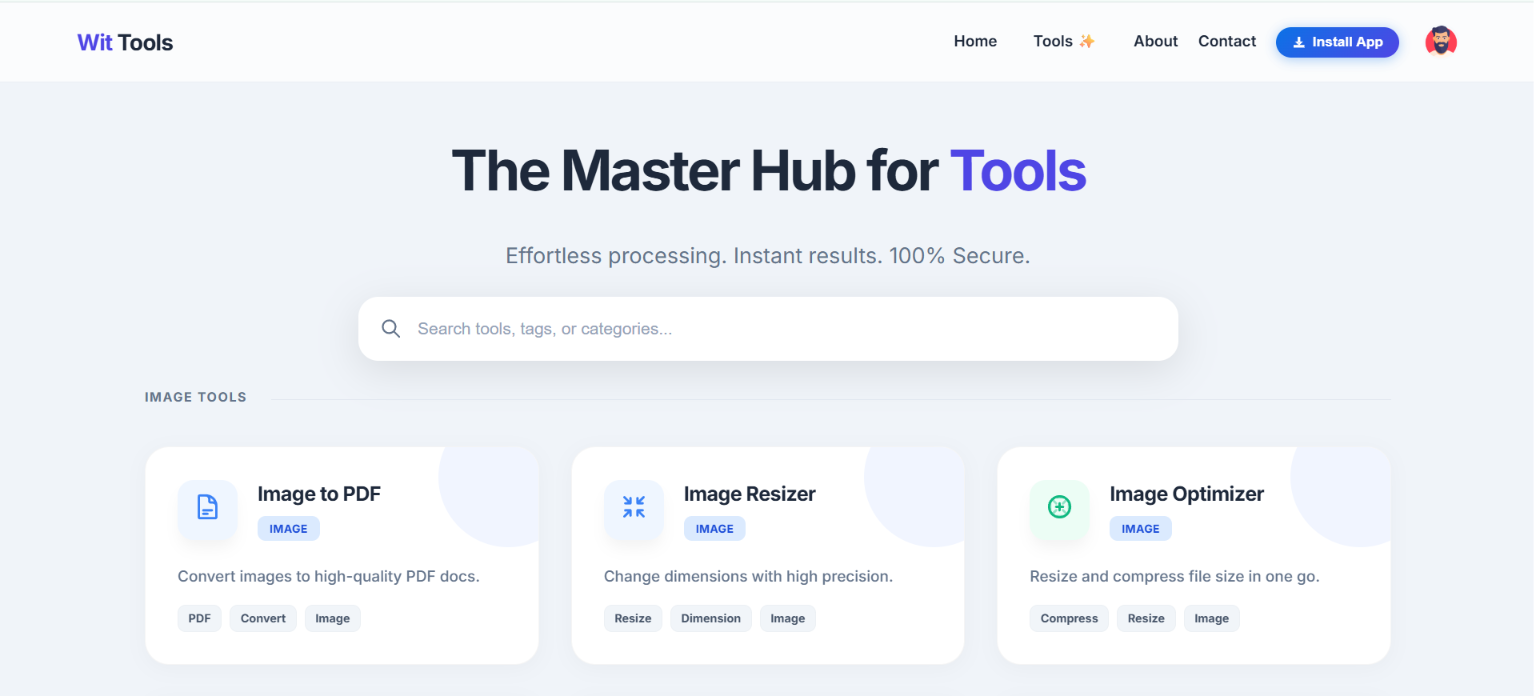
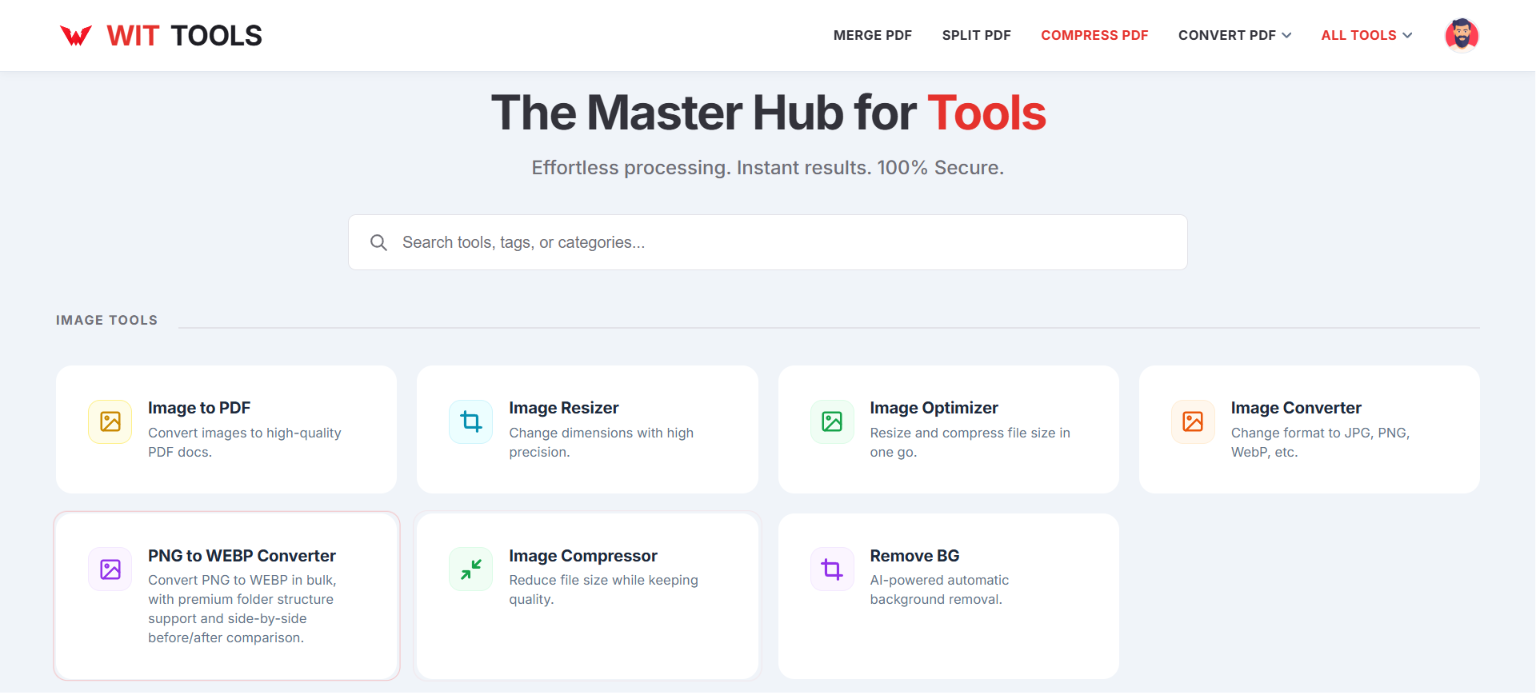
wittool project img chnage

diff --git a/src/themes/main-theme/components/Projects.jsx b/src/themes/main-theme/components/Projects.jsx
@@ -6,13 +6,13 @@ import portfolioData from '../../../data/portfolio.json'
 
 import witcetImg from '../../../assets/Projects/witcet.png'
 import expenseTrackerImg from '../../../assets/Projects/portfolio3-full.png'
-import wittoolImg from '../../../assets/Projects/wittool.png'
+import wittoolImg from '../../../assets/Projects/wittool.webp'
 import skillnearImg from '../../../assets/Projects/D-Home.png'
 import pawpertioImg from '../../../assets/Projects/pawpertio.png'
 const imgMap = {
   '/assets/Projects/witcet.png': witcetImg,
   '/assets/Projects/portfolio3-full.png': expenseTrackerImg,
-  '/assets/Projects/wittool.png': wittoolImg,
+  '/assets/Projects/wittool.webp': wittoolImg,
   '/assets/Projects/D-Home.png': skillnearImg,
   '/assets/Projects/pawpertio.png': pawpertioImg,
 }

diff --git a/src/themes/theme2/components/Projects/FeaturedProjects.jsx b/src/themes/theme2/components/Projects/FeaturedProjects.jsx
@@ -6,7 +6,7 @@ import './Projects.css';
 // Static image imports for instant pre-cached loading
 import pawpertioImg from '../../../../assets/Projects/pawpertio.png';
 import dhomeImg from '../../../../assets/Projects/D-Home.png';
-import wittoolImg from '../../../../assets/Projects/wittool.png';
+import wittoolImg from '../../../../assets/Projects/wittool.webp';
 import witcetImg from '../../../../assets/Projects/witcet.png';
 
 const projectImages = [pawpertioImg, dhomeImg, wittoolImg, witcetImg];

diff --git a/src/themes/theme1/Theme1.jsx b/src/themes/theme1/Theme1.jsx
@@ -32,7 +32,7 @@ import scraperImg from '../../assets/utility-tools/witcraper.png'
 const imgMap = {
   '/assets/Projects/pawpertio.png': pawpertioImg,
   '/assets/Projects/D-Home.png': skillnearImg,
-  '/assets/Projects/wittool.png': wittoolImg,
+  '/assets/Projects/wittool.webp': wittoolImg,
   '/assets/Projects/witcet.png': witcetMernImg,
   '/assets/shopify-store/store1-full.png': store1Img,
   '/assets/shopify-store/store2-full.png': store2Img,
